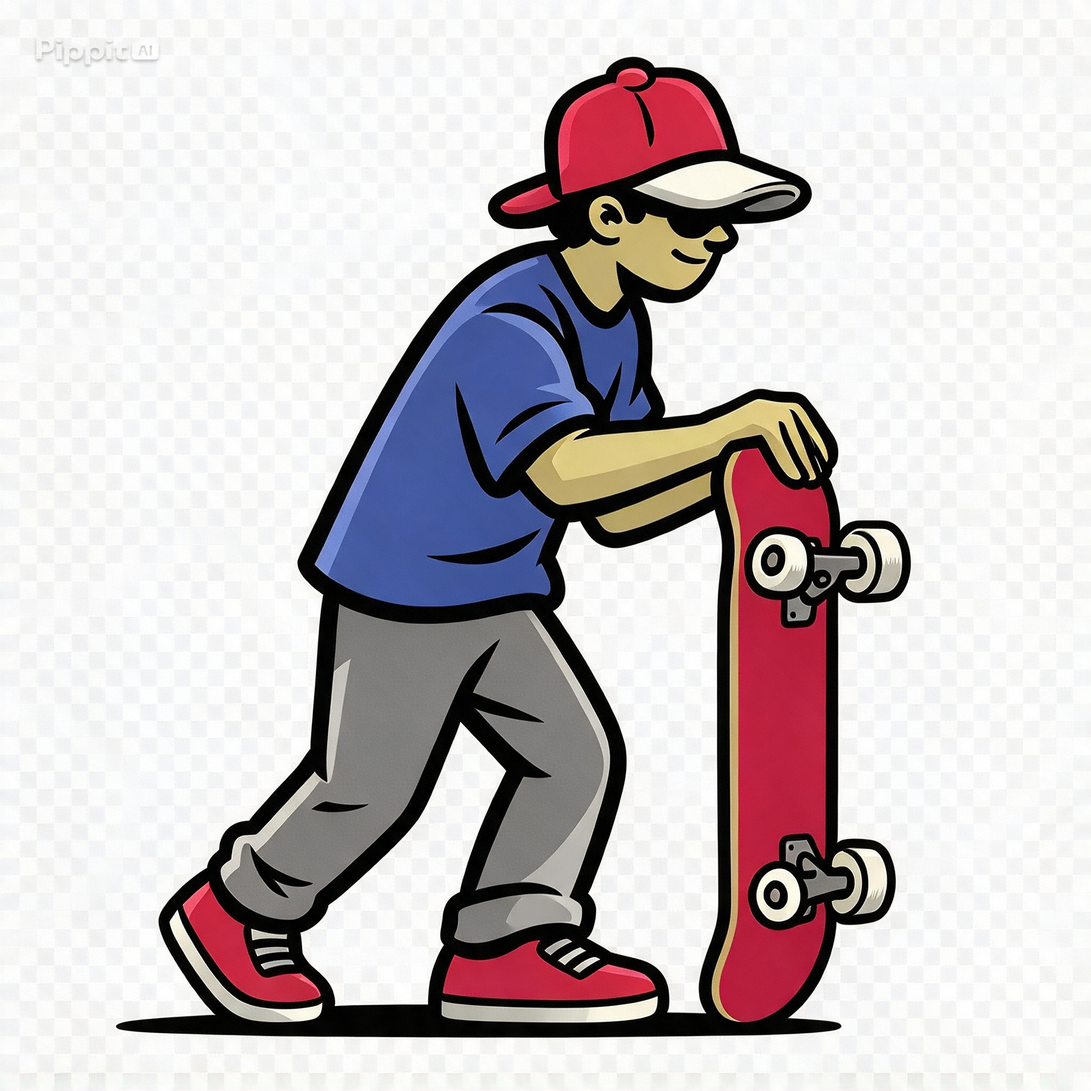
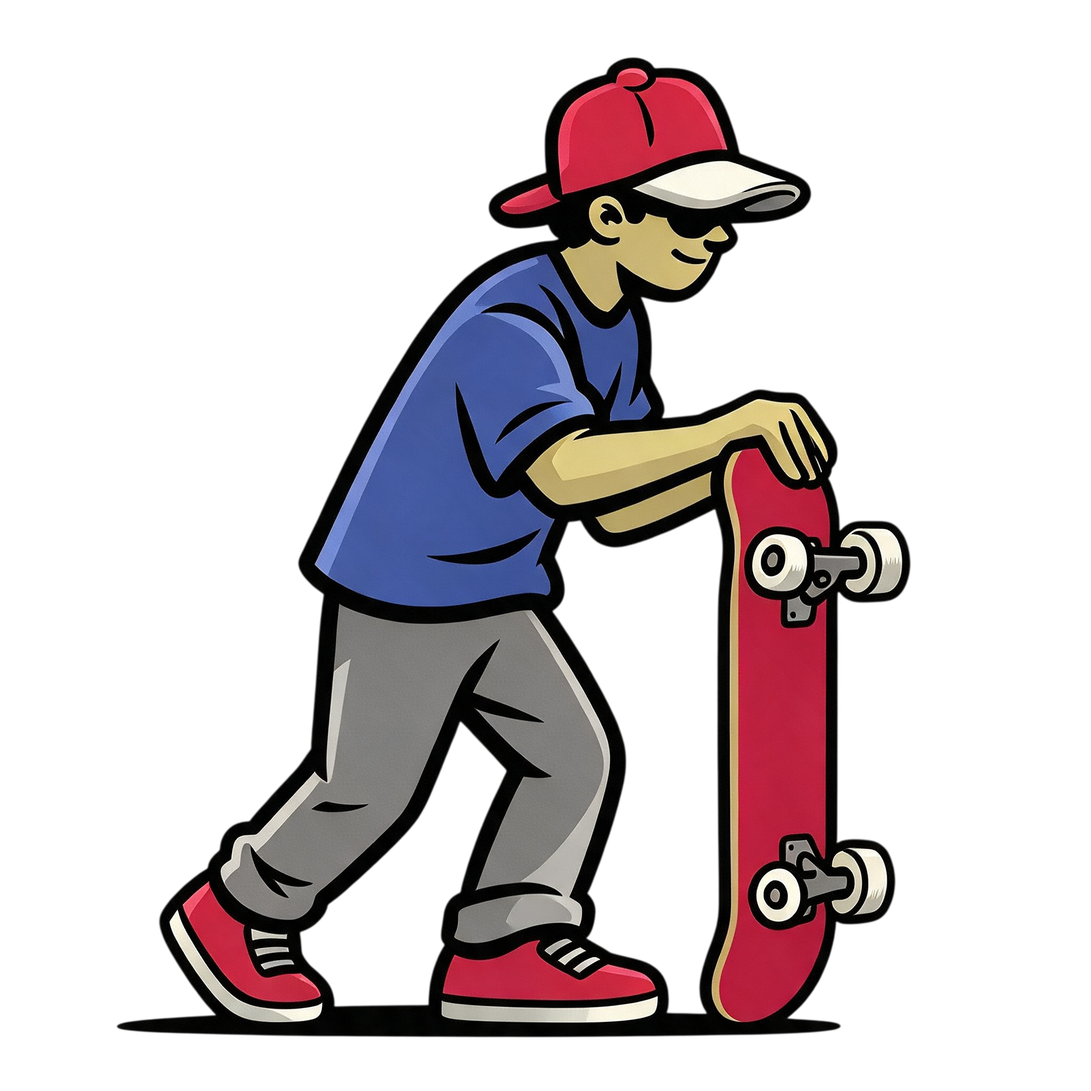
Assets nuevos, animacion de incio y ajustes varios

Changed region(s): [[0.0312, 0.0312, 0.1562, 0.0625], [0.7188, 0.9062, 0.75, 0.9375], [0.5312, 0.8438, 0.5625, 0.875]]

diff --git a/sketch.js b/sketch.js
@@ -25,7 +25,7 @@ function preload() {
 
   //CARGAR POSES
   imgSkaterShoot = loadImage('assets/skater_shoot.png');
-  imgSkaterMid = loadImage('assets/skater_mid.jpg');
+  imgSkaterMid = loadImage('assets/skater_mid.png');
   imgSkaterDown = loadImage('assets/skater_down.png');
   imgSkaterDespuesSalto = loadImage('assets/Skater_DespuesSalto.png');
 }
@@ -71,7 +71,7 @@ let puntuacionMaxima = 0;
 // 2. SETUP Y LOOP PRINCIPAL
 // ==========================================
 function setup() {
-  createCanvas(800, 450); // Formato horizontal 16:9
+  createCanvas(1000, 550); // Formato horizontal 16:9
   jugador = new Skater();
   
   // Cargar récord guardado en el navegador
@@ -117,7 +117,24 @@ function keyPressed() {
 // 4. FONDO Y AMBIENTACIÓN (Alcantarillas NY)
 // ==========================================
 
+function renderizarFondo() {
+  // Fondo gris neutro para pruebas (puedes ajustar el 100 a otro número entre 0 y 255)
+  background(100);
 
+  // Mantenemos el agua tóxica animada en el suelo para seguir probando colisiones
+  offsetAgua += 0.05;
+  noStroke();
+  fill(50, 205, 50, 200); // Verde tóxico
+
+  beginShape();
+  vertex(0, height);
+  for (let x = 0; x <= width; x += 20) {
+    let y = height - altoAguaToxica + sin(offsetAgua + x * 0.05) * 4;
+    vertex(x, y);
+  }
+  vertex(width, height);
+  endShape(CLOSE);
+}
 // Fondo oculto mientras hago pruebas
 /*function renderizarFondo() {
   image(imgFondo, 0, 0, width, height);
@@ -139,7 +156,7 @@ function keyPressed() {
 
 // Rampa
 function dibujarRampa() {
-  image(imgRampa, rampaX, height - altoAguaToxica - 50, 80, 50);
+  image(imgRampa, rampaX, height - 100, 130, 100);
 }
 
 function actualizarCinematica() {
@@ -149,7 +166,7 @@ function actualizarCinematica() {
     skaterIntro.x += skaterIntro.vx;
 
     // Cambia de frame cada 8 fotogramas (ajusta el 8 si quieres que corra más rápido/lento)
-    let frameActual = floor(frameCount / 8) % imgSkaterRun.length;
+    let frameActual = floor(frameCount / 10) % imgSkaterRun.length;
 
     push();
     translate(skaterIntro.x, skaterIntro.y);
